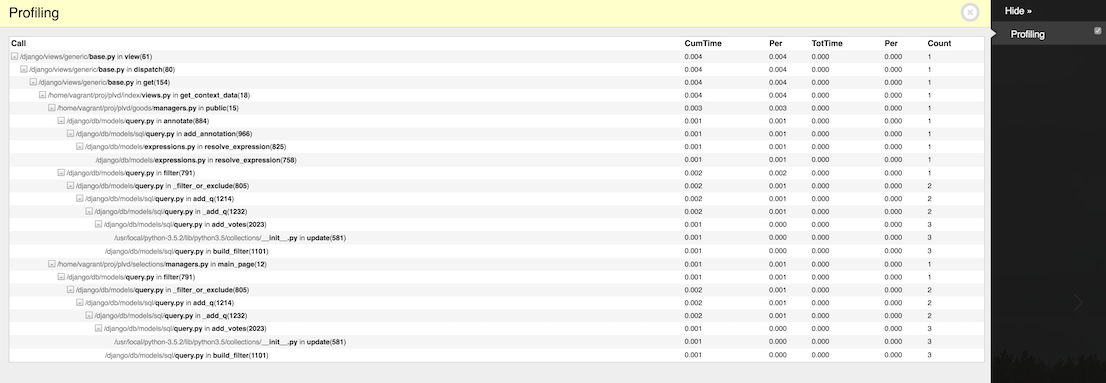
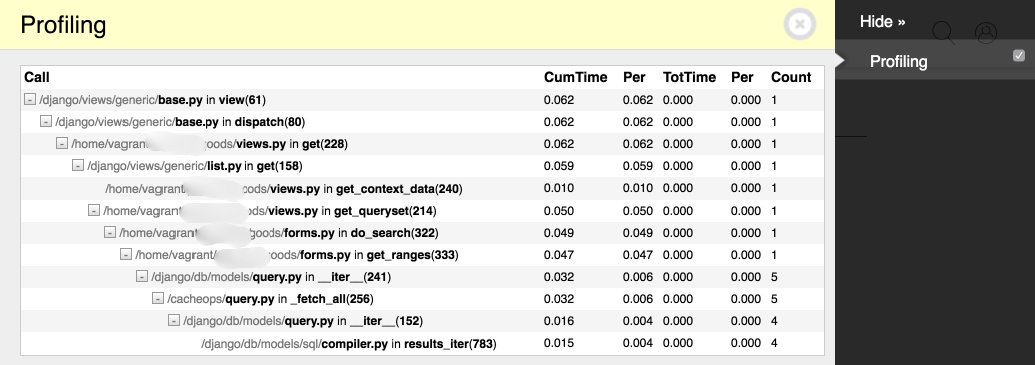
:rocket: better screenshots for django optimization post

Changed region(s): [[0.0, 0.0, 1.0, 1.0], [0.9894, 0.0603, 1.0, 0.0904]]

diff --git a/content/en/python-django-optimization-guide.md b/content/en/python-django-optimization-guide.md
@@ -1,4 +1,5 @@
 Title: Django project optimization guide (part 1)
+Slug: django-project-optimization-part-1
 Date: 2017-6-14 16:47
 Author: Admin
 Category: Python
@@ -47,7 +48,16 @@ LOGGING = {
 also, make sure that `DEBUG = True`. After reloading server you should see SQL queries and corresponding time in console
 for every request you make:
 
-![SQL logging](/media/2017/6/sql-logging.png)
+```sql
+(0.002) SELECT DISTINCT "handbooks_size"."size_type_id", "goods_goods"."size_id" FROM "goods_goods" LEFT OUTER JOIN "handbooks_size" ON ("goods_goods"."size_id" = "handbooks_size"."id") WHERE "goods_goods"."status" IN ('reserved', 'sold', 'approved') ORDER BY "goods_goods"."size_id" ASC; args=('reserved', 'sold', 'approved')
+(0.001) SELECT DISTINCT "goods_goods"."color_id" FROM "goods_goods" WHERE "goods_goods"."status" IN ('reserved', 'sold', 'approved') ORDER BY "goods_goods"."color_id" ASC; args=('reserved', 'sold', 'approved')
+(0.001) SELECT DISTINCT "handbooks_size"."row", "handbooks_size"."size_type_id", "goods_goods"."size_id" FROM "goods_goods" LEFT OUTER JOIN "handbooks_size" ON ("goods_goods"."size_id" = "handbooks_size"."id") WHERE "goods_goods"."status" IN ('reserved', 'sold', 'approved') ORDER BY "goods_goods"."size_id" ASC; args=('reserved', 'sold', 'approved')
+(0.000) SELECT DISTINCT "goods_goods"."season" FROM "goods_goods" WHERE "goods_goods"."status" IN ('reserved', 'sold', 'approved') ORDER BY "goods_goods"."season" ASC; args=('reserved', 'sold', 'approved')
+(0.000) SELECT DISTINCT "goods_goods"."state" FROM "goods_goods" WHERE "goods_goods"."status" IN ('reserved', 'sold', 'approved') ORDER BY "goods_goods"."state" ASC; args=('reserved', 'sold', 'approved')
+(0.002) SELECT MAX("__col1"), MIN("__col2") FROM (SELECT "goods_goods"."id" AS Col1, CASE WHEN "goods_goods"."status" = 'sold' THEN 1 ELSE 0 END AS "x_order", "goods_goods"."price_sell" AS "__col1", "goods_goods"."price_sell" AS "__col2" FROM "goods_goods" WHERE "goods_goods"."status" IN ('reserved', 'sold', 'approved') GROUP BY "goods_goods"."id", CASE WHEN "goods_goods"."status" = 'sold' THEN 1 ELSE 0 END) subquery; args=('sold', 1, 0, 'reserved', 'sold', 'approved', 'sold', 1, 0)
+(0.001) SELECT COUNT(*) FROM (SELECT "goods_goods"."id" AS Col1, CASE WHEN "goods_goods"."status" = 'sold' THEN 1 ELSE 0 END AS "x_order" FROM "goods_goods" WHERE "goods_goods"."status" IN ('reserved', 'sold', 'approved') GROUP BY "goods_goods"."id", CASE WHEN "goods_goods"."status" = 'sold' THEN 1 ELSE 0 END) subquery; args=('sold', 1, 0, 'reserved', 'sold', 'approved', 'sold', 1, 0)
+[15/Jun/2017 11:03:49] "GET /goods HTTP/1.0" 200 32583
+```
 
 ### Django Debug Toolbar
 

diff --git a/content/ru/python-django-optimization.md b/content/ru/python-django-optimization.md
@@ -1,4 +1,5 @@
 Title: Оптимизация производительности Django проектов (часть 1)
+Slug: django-project-optimization-part-1
 Date: 2017-6-14 16:47
 Author: Admin
 Category: Python
